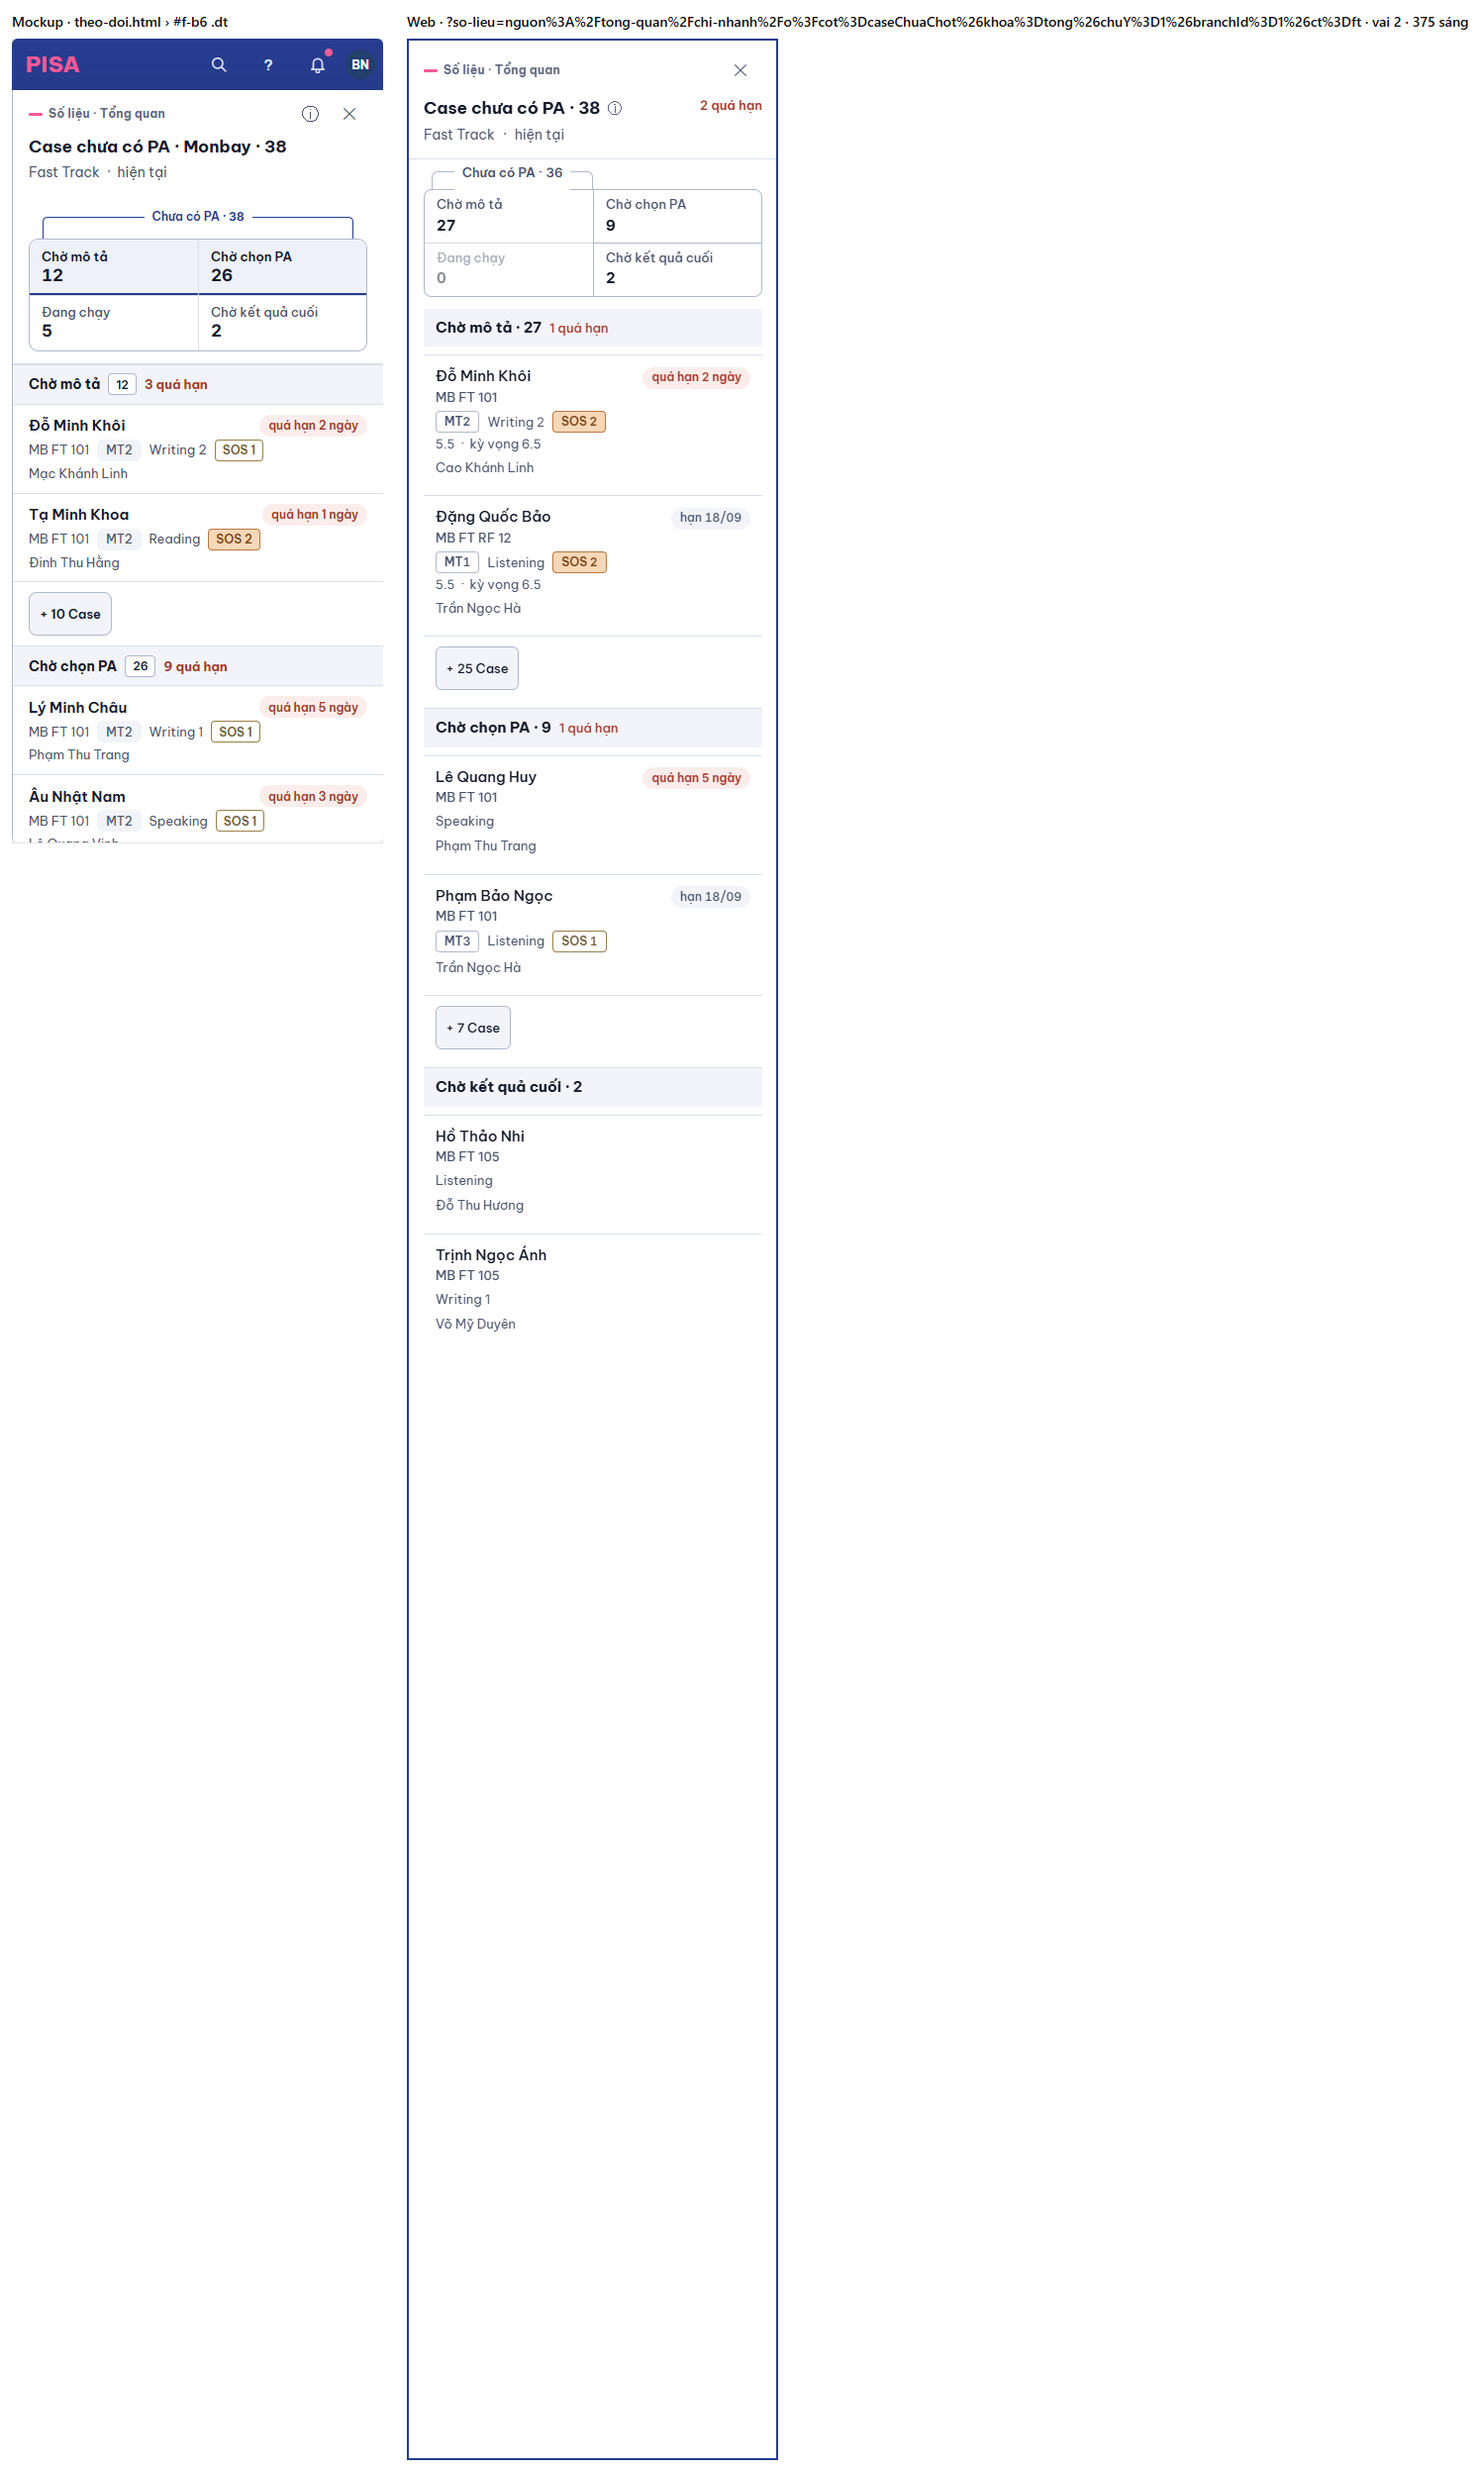
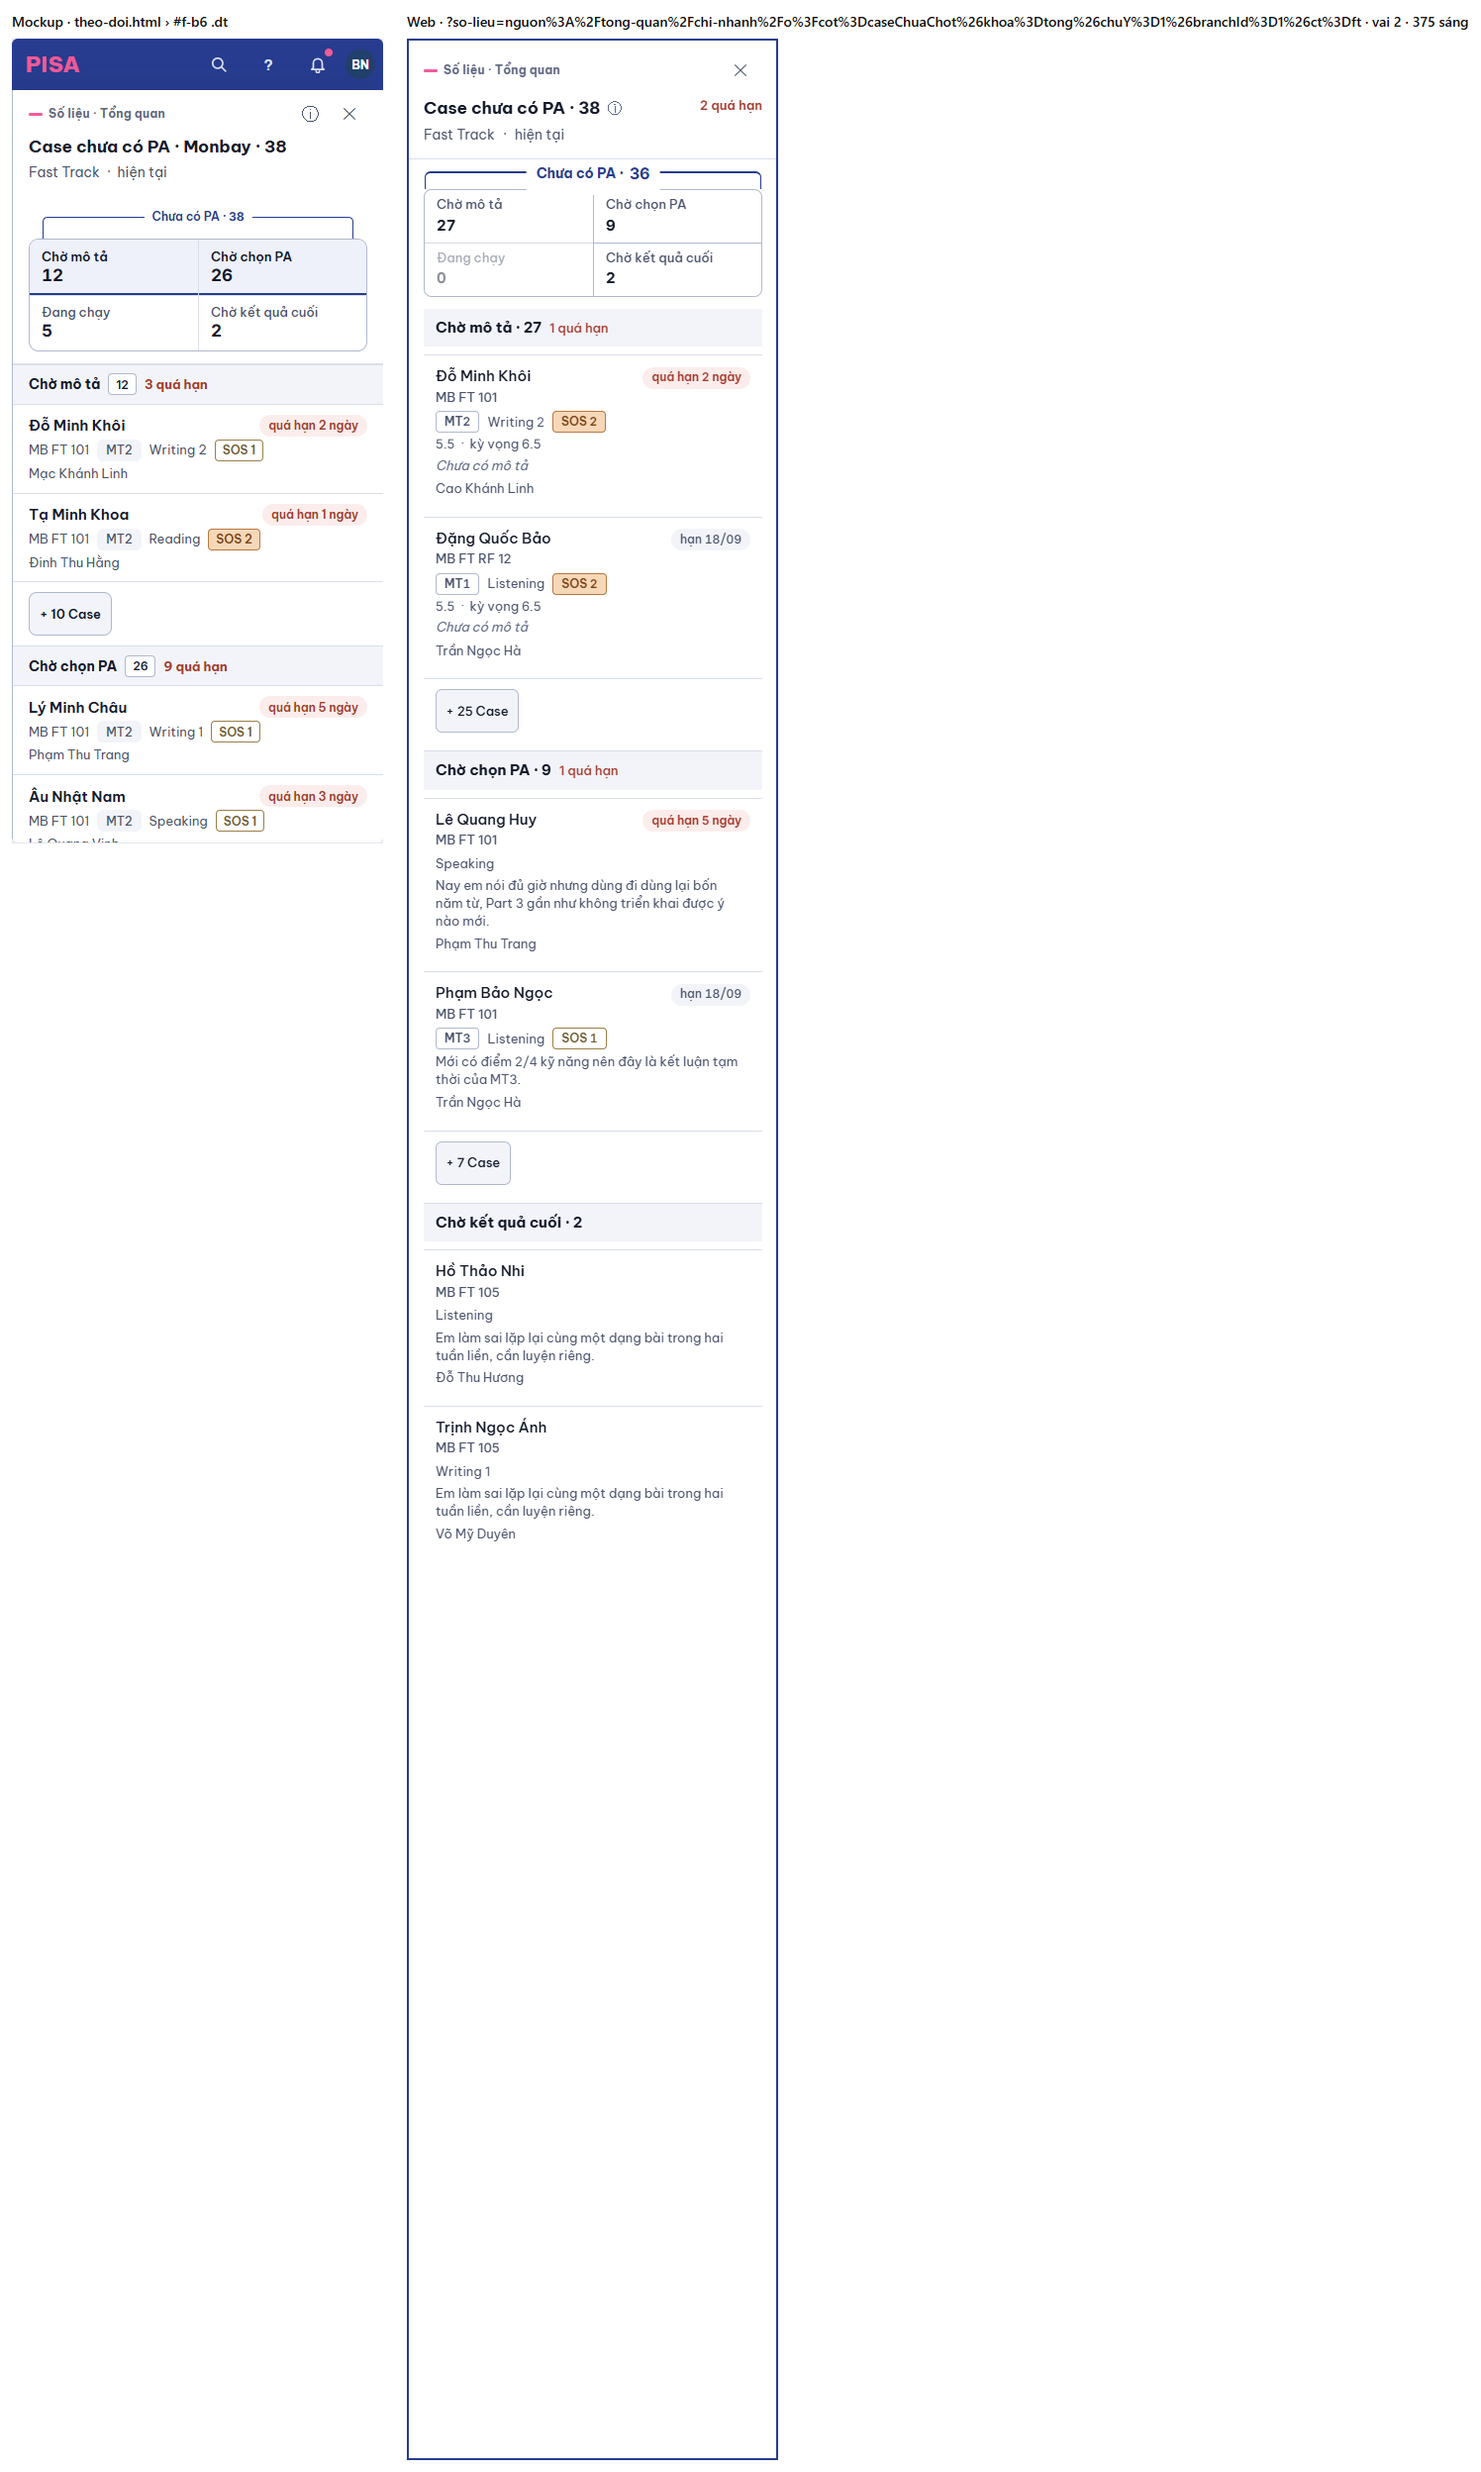
GD-21: ngoặc Chưa có PA căn theo hai ô đầu + màu nhấn; hàng Case có mô tả (cắt theo câu); ảnh cặp B1 / B6

Changed region(s): [[0.2767, 0.1874, 0.492, 0.6247], [0.4612, 0.1874, 0.492, 0.2187]]

diff --git a/web/src/ui/SoLieu.tsx b/web/src/ui/SoLieu.tsx
@@ -62,6 +62,7 @@ export type DongSoLieu = {
   /** GD-21: kỹ năng của Case (cột Case chỉ ghi kỹ năng). */
   kyNang?: string | null;
   luot?: string | null;
+  moTa?: string | null;
   /** 6c-2 (#632 XM-1): dòng Case — điểm kỹ năng ở lượt mở Case (máy chủ `rowsFor('case')`). */
   diemCase?: { so: number; kyVong: number | null; luot: string | null; nhan?: string | null } | null;
   /** UI-HO-SO-GV: dòng kết quả — mốc so, kết luận (tab Chưa đạt · Đạt · Vượt). Điểm từng kỹ năng nay ở `diemHv` (PANEL-MC). */
@@ -173,12 +174,16 @@ function DaiBuoc({ hien, loc, soLoc, datLoc }: {
   return (
     <div className="mb-3">
       {/* Ngoặc "Chưa có PA" trùm hai bước đầu (⑬ B1): viền mảnh, chữ giữa đường viền trên; "Bỏ lọc bước" ở hàng ngoặc, chỉ khi đang lọc. */}
-      <div className="relative mx-2 mb-0 mt-3 h-[18px] w-[calc(50%-0.5rem)] rounded-t-md border border-b-0" style={{ borderColor: chuaPa ? 'var(--accent)' : 'var(--line-strong)' }}>
-        <button type="button" aria-pressed={chuaPa} onClick={() => datLoc(chuaPa ? [] : [...dauHai])}
-          className={`absolute left-1/2 top-0 inline-flex min-h-[28px] -translate-x-1/2 -translate-y-1/2 appearance-none items-center whitespace-nowrap border-0 bg-[color:var(--surface)] px-2 text-[13px] font-semibold max-sm:min-h-[44px] ${chuaPa ? 'text-[color:var(--accent)]' : 'text-slate-300'}`}>
-          {t('Chưa có PA')} · <span className="ml-1 tabular-nums">{tong}</span>
-        </button>
-        {loc.length > 0 && <button type="button" className="link absolute left-[calc(200%+0.5rem)] top-0 -translate-y-1/2 appearance-none whitespace-nowrap border-0 bg-transparent p-0 text-[13px] max-sm:min-h-[44px]" onClick={() => datLoc(null)}>{t('Bỏ lọc bước')}</button>}
+      {/* Ngoặc "Chưa có PA" (⑬ B1): trùm đúng hai ô đầu — mép trái ô 1 tới mép phải ô 2 (cùng lưới 4 cột + 1 px viền của dải), viền màu nhấn, chữ đậm, số nổi. */}
+      <div className="grid grid-cols-4 px-px max-sm:grid-cols-2">
+        <div className="relative col-span-2 mt-3 h-[18px] rounded-t-md border-x border-t-2" style={{ borderColor: 'var(--accent)' }}>
+          <button type="button" aria-pressed={chuaPa} onClick={() => datLoc(chuaPa ? [] : [...dauHai])}
+            className="absolute left-1/2 top-0 inline-flex min-h-[28px] -translate-x-1/2 -translate-y-1/2 appearance-none items-center gap-1.5 whitespace-nowrap rounded-md border-0 bg-[color:var(--surface)] px-2.5 text-[14px] font-bold text-[color:var(--accent)] max-sm:min-h-[44px]"
+            style={chuaPa ? { background: 'var(--accent-soft)' } : undefined}>
+            {t('Chưa có PA')} · <span className="text-[17px] tabular-nums">{tong}</span>
+          </button>
+        </div>
+        {loc.length > 0 && <button type="button" className="link col-span-2 mt-3 self-start justify-self-end appearance-none whitespace-nowrap border-0 bg-transparent p-0 text-[13px] max-sm:min-h-[44px]" onClick={() => datLoc(null)}>{t('Bỏ lọc bước')}</button>}
       </div>
       <div role="group" aria-label={t('Lọc theo bước')} className="grid grid-cols-2 overflow-hidden rounded-lg border sm:grid-cols-4" style={{ borderColor: 'var(--line-strong)' }}>
         {BUOC_CASE.map((b, i) => (
@@ -219,6 +224,13 @@ const doanDiem = (d: NonNullable<DongSoLieu['diemCase']>): ReactNode[] => [
 const LamDongSoLieu = lazyTai(() => import('../modules/worklist/LamDongSoLieu.tsx').then((m) => ({ default: m.LamDongSoLieu })));
 
 
+/** GD-21 (chủ SP 15/11): mô tả Case cắt THEO CÂU — lấy câu đầu (nguyên), thêm câu sau chừng nào còn vừa ~170 ký tự; không "…" giữa chữ. */
+function catCau(s: string, toiDa = 170): string {
+  const cau = s.replace(/[ \t\r\n]+/g, ' ').trim().match(/[^.!?;]+[.!?;]?/g) ?? [s];
+  let out = '';
+  for (const c of cau) { if (out && (out + c).length > toiDa) break; out += c; }
+  return out.trim();
+}
 /** GD-21: hàng của bảng Case theo bước — dải nhóm (bước) hoặc một Case. */
 type HangCase = { k: string; ten: string; conCho: number; tre: number } | { k: string; r: DongSoLieu & { xong?: string } } | { k: string; them: number; nhom: string };
 const COT_CASE: readonly CotBang[] = [
@@ -422,6 +434,7 @@ export function NganDanhSach({ nguon, tieuDe, dv, data, loading, error, reload, 
           {(r.nhom === 'choDuyetPa' || r.nhom === 'khongTheoDoi') && <span className={CHIP_VUONG} style={{ borderColor: 'var(--line-strong)' }} title={t('Đề xuất đổi PA chờ QL duyệt')}>{t('chờ QL')}</span>}
         </span>
         <span className="whitespace-nowrap text-[13px] text-slate-400">{r.xong ? <b className="font-semibold text-ok">✓ {r.xong}</b> : r.diemCase && <Doan ds={[r.diemCase.so.toFixed(1), r.diemCase.kyVong != null && t('kỳ vọng {kv}', { kv: r.diemCase.kyVong.toFixed(1) })]} />}</span>
+        {r.moTa ? <span className="max-w-[68ch] text-[13px] leading-snug text-slate-300 [text-wrap:pretty]">{catCau(r.moTa)}</span> : <span className="text-[13px] italic text-slate-500">{t('Chưa có mô tả')}</span>}
       </span>
     );
     if (k === 'gv') return <span className="text-[13px]">{r.nguoiId != null && r.nguoiId === toi ? <b className="font-semibold">{t('Bạn')}</b> : r.nguoi ?? t('Chưa có người phụ trách')}</span>;

diff --git a/server/src/worklist/metrics.ts b/server/src/worklist/metrics.ts
@@ -144,6 +144,8 @@ export type MetricRow = {
   kyNang?: string | null;
   /** GD-21: lượt của Case (MT2…) — khi chưa có mốc điểm. */
   luot?: string | null;
+  /** GD-21: mô tả Case (`sos_cases.summary`, đã nạp cùng câu) — hàng Case ghi dưới khuôn MTn · kỹ năng · SOS. */
+  moTa?: string | null;
   /** 6c-2 (#632 XM-1): dòng Case — điểm kỹ năng ở mốc mở / lặp Case gần nhất (band, kỳ vọng lượt đó, "MT2" / "Progress Test"). */
   diemCase?: { so: number; kyVong: number | null; luot: string | null; nhan?: string | null } | null;
   /** R1-EN-2: dòng thi thật — ngày dd/mm; web ghép "Thi thật {ngay}" bằng t() thay `ngCanh`. */
@@ -240,7 +242,7 @@ export function rowsFor(unit: ChiSo['donVi'], ids: number[], metricId?: string, 
       }
     } else if (unit === 'case') {
       const ds = conn.prepare(
-        `SELECT sc.id, sc.title, COALESCE(sc.category, sc.topic) AS mon, sc.category, sc.topic, cy.programme_code AS ct, s.id AS sid, s.full_name, s.student_code,
+        `SELECT sc.id, sc.title, sc.summary, COALESCE(sc.category, sc.topic) AS mon, sc.category, sc.topic, cy.programme_code AS ct, s.id AS sid, s.full_name, s.student_code,
                 sc.status, sc.detected_at, sc.urgency, sc.sos_level, sc.kck, sc.origin_kind, a.attempt_no, a.kind AS attempt_kind, u.full_name AS nguoi, sc.owner_user_id,
                 COALESCE(cur.class_id, a.class_id) AS lop_id, lc.code AS lop
            FROM sos_cases sc LEFT JOIN assessment_attempts a ON a.id = sc.attempt_id
@@ -282,6 +284,7 @@ export function rowsFor(unit: ChiSo['donVi'], ids: number[], metricId?: string, 
           em: r.sid ? { id: r.sid, ten: r.full_name } : null, lop: r.lop ?? null, ngCanh: ten,
           viec: v?.viec ?? null, tinhTrang: v?.tinhTrang ?? null, diemCase: diemCase.get(r.id) ?? null, buoc: v?.buoc ?? null,
           sos: r.sos_level > 0 ? { muc: r.sos_level, tam: false } : null, kyNang: r.mon ? tenMon(r.ct ?? null, r.mon).replace(' Task', '') : null,
+          moTa: r.summary ? String(r.summary) : null,
           luot: r.attempt_kind ? nhanDot(r.attempt_kind, r.attempt_no ?? null) : null,
         });
       }

diff --git a/shared/i18n/en/gd21.ts b/shared/i18n/en/gd21.ts
@@ -1,6 +1,7 @@
 /** GD-21 (Overhaul V6 đợt 4, mockup ⑬ Theo dõi trực diện): dải bước panel Case · dòng Sắp tới · Sao chép. Khoá = chữ Việt trên web. */
 export const EN_GD21 = {
   'Case theo bước': 'Cases by step',
+  'Chưa có mô tả': 'No description yet',
   'Case theo bước xử lý — số = số Case ở bước đó. Chưa có PA = Chờ mô tả + Chờ chọn PA. Bấm bước để lọc, bấm lại để bỏ.': 'Cases by handling step — the number is the Cases at that step. No PA yet = Awaiting description + Awaiting PA choice. Click a step to filter, click again to clear.',
   'Đề xuất đổi PA chờ QL duyệt': 'PA change proposal awaiting manager approval',
   'Chờ mô tả': 'Awaiting description',
